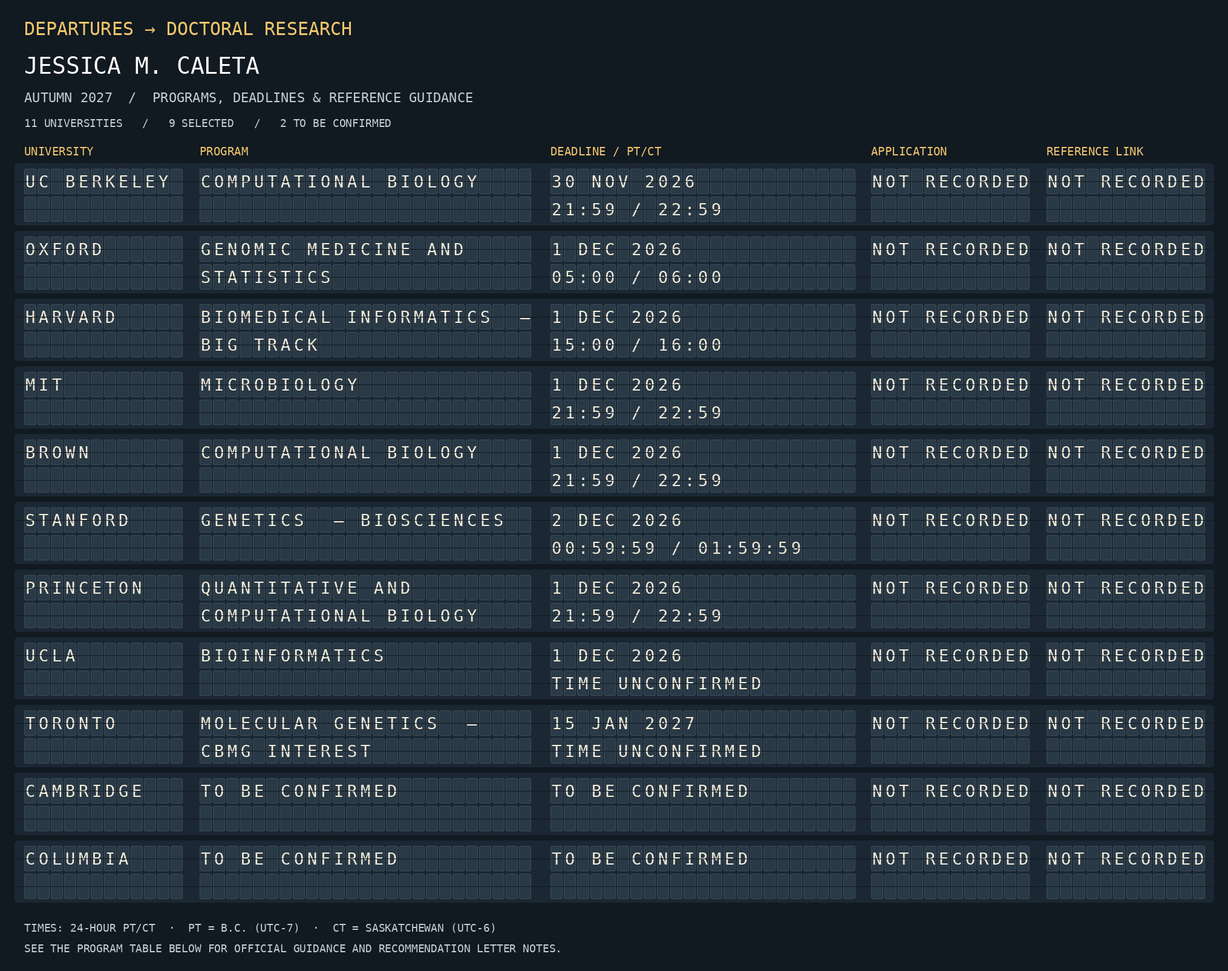
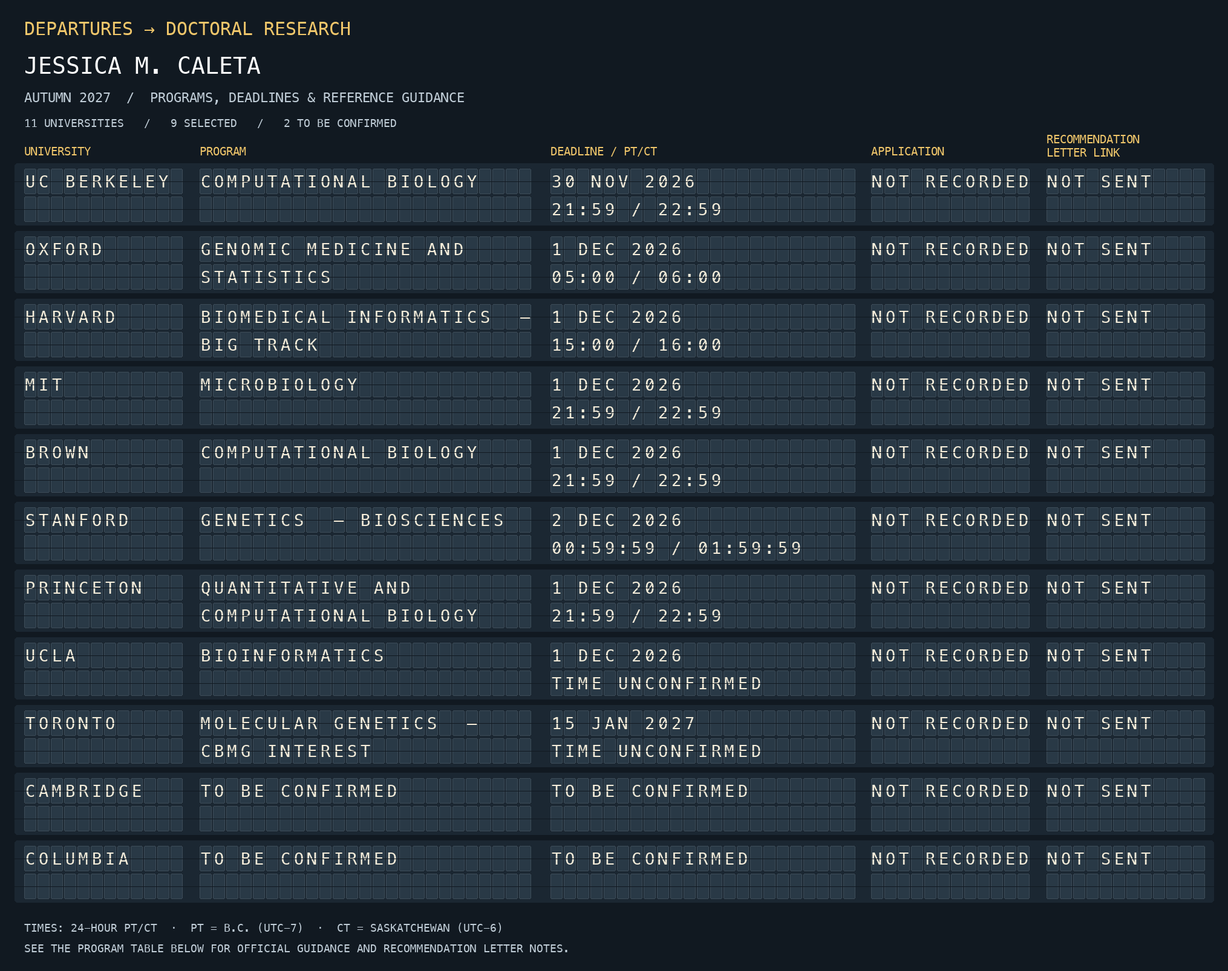
Restore linked signs and clarify recommendation link status

diff --git a/scripts/render_board.py b/scripts/render_board.py
@@ -1,77 +1,35 @@
-"""Render the landing page from Program_Info.md using only Python's standard library."""
-
+"""Refresh navigation and the program table while preserving other README edits."""
 from pathlib import Path
-import re
-
-
-ROOT = Path(__file__).resolve().parents[1]
-info = (ROOT / "Program_Info.md").read_text(encoding="utf-8")
-
-rows = []
+ROOT=Path(__file__).resolve().parents[1]
+info=(ROOT/'Program_Info.md').read_text(encoding='utf-8')
+readme_path=ROOT/'README.md'
+readme=readme_path.read_text(encoding='utf-8')
+rows=[]
 for line in info.splitlines():
-    if not line.startswith("| "):
-        continue
-    cells = [cell.strip() for cell in line.strip("|").split("|")]
-    if len(cells) != 7 or cells[0] in ("University", "---"):
-        continue
-    rows.append(cells)
-
+    if not line.startswith('| '):continue
+    cells=[cell.strip() for cell in line.strip('|').split('|')]
+    if len(cells)==7 and cells[0] not in ('University','---'):rows.append(cells)
 assert rows, "No program rows found"
-
-readme = """# Jessica M. Caleta · PhD referee package
-
-<p align="center">
-<a href="Jessica_Caleta_Academic_CV.pdf"><img src="assets/academic-cv-sign.png" alt="Academic CV — qualifications and publications" width="32%"></a> 
-<a href="Research_Brief.md"><img src="assets/research-brief-sign.png" alt="Research brief — interests and experience" width="32%"></a> 
+nav='''<p align="center">
+<a href="Jessica_Caleta_Academic_CV.pdf"><img src="assets/academic-cv-sign.png" alt="Academic CV — qualifications and publications" width="32%"></a>
+<a href="Research_Brief.md"><img src="assets/research-brief-sign.png" alt="Research brief — interests and experience" width="32%"></a>
 <a href="Program_Info.md"><img src="assets/program-guide-sign.png" alt="Program guide — deadlines and references" width="32%"></a>
 </p>
-
-[![PhD application board — click to jump to linked programs and guidance](assets/application-board.gif)](#programs-deadlines--recommendation-letters)
-
-[View the still board](assets/application-board-still.png) · Up to four values flip at once, with five-second pauses. Letters start together and settle independently. Deadlines stay still; the full table below is always readable.
-
-Welcome, and thank you for supporting my autumn 2027 PhD applications. This page is the central reference for my program choices, deadlines, and application progress. The table below links to the best official recommendation-letter guidance available; applicant-facing pages are labeled. Application status does not indicate whether a recommendation letter has been submitted.
-
-"""
-
-table_start = info.index("| University |")
-table_lines = info[table_start:].splitlines()
-last_table_line = max(
-    index for index, line in enumerate(table_lines) if line.startswith("| ")
-)
-suffix = "\n".join(table_lines[last_table_line + 1 :])
-intro = info[:table_start].replace(
-    "# PhD Programs, Deadlines & Recommendation Letter Guide",
-    "## Programs, deadlines & recommendation letters",
-    1,
-)
-# Keep the landing page concise; the full source guide retains the deadline note.
-intro = re.sub(r"\*\*Deadline:\*\*.*?\n\n", "", intro)
-intro = intro.replace("These labels reflect the referees’ locations. ", "")
-readme += intro
-
-readme += (
-    "| University | Program | Deadline | Recommendation letter guidelines | "
-    "Application status | Reference link status | Notes |\n"
-    "| --- | --- | --- | --- | --- | --- | --- |\n"
-)
-
-for university, program, deadline, guidance, status, link_status, note in rows:
-    note = "" if note in ("—", "") else note
-    readme += (
-        f"| **{university}** | {program} | {deadline.replace(' / ', '<br>')} | "
-        f"{guidance} | {status} | {link_status} | {note} |\n"
-    )
-
-readme += f"\n{suffix}\n"
-readme += """
-
-Updating the board
-
-Edit the **Application status** and **Reference link status** columns in [Program_Info.md](Program_Info.md), then commit the change to `main`. For reference links, use only “Sent”, “Not sent”, or “Not recorded”. You can also update program choices, deadlines, and notes in the same file, including the date at the top.
-
-GitHub Actions refreshes this landing page and its board after each edit. To regenerate locally, run `uv run python scripts/render_board.py` followed by `uv run --with pillow python scripts/render_animation.py`. The full table preserves the exact status wording and all guidance links.
-"""
-
-(ROOT / "README.md").write_text(readme, encoding="utf-8")
-print(f"Rendered {len(rows)} programs from Program_Info.md")
+'''
+# A visual Markdown editor can flatten the linked HTML signs. Restore their source markup.
+first_break=readme.index('\n\n')
+board_line=next(line for line in readme.splitlines() if 'assets/application-board.gif' in line)
+board_at=readme.index(board_line)
+readme=readme[:first_break+2]+nav+'\n'+readme[board_at:]
+lines=readme.splitlines()
+start=next(i for i,line in enumerate(lines) if line.startswith('| University'))
+end=start
+while end<len(lines) and lines[end].startswith('|'):end+=1
+table=['| University | Program | Deadline | Recommendation letter guidelines | Application status | Recommendation letter link | Notes |',
+       '| --- | --- | --- | --- | --- | --- | --- |']
+for university,program,deadline,guidance,status,link_status,note in rows:
+    note='' if note in ('—','') else note
+    table.append('| '+' | '.join([f'**{university}**',program,deadline,guidance,status,link_status,note])+' |')
+lines[start:end]=table
+readme_path.write_text('\n'.join(lines)+'\n',encoding='utf-8')
+print(f'Restored three linked signs and refreshed {len(rows)} program rows; other README text preserved.')

diff --git a/scripts/render_animation.py b/scripts/render_animation.py
@@ -32,7 +32,11 @@ label(40,86,'JESSICA M. CALETA',38,'#ffffff')
 label(40,148,'AUTUMN 2027  /  PROGRAMS, DEADLINES & REFERENCE GUIDANCE',22)
 pending=sum(r[1]=='TBD' for r in rows)
 label(40,193,f'{len(rows)} UNIVERSITIES   /   {len(rows)-pending} SELECTED   /   {pending} TO BE CONFIRMED',18)
-for (kind,x,n),name in zip(COLS,['UNIVERSITY','PROGRAM','DEADLINE / PT/CT','APPLICATION','REFERENCE LINK']):label(x,239,name,19,'#f0c66a')
+for (kind,x,n),name in zip(COLS,['UNIVERSITY','PROGRAM','DEADLINE / PT/CT','APPLICATION','RECOMMENDATION']):
+    if kind=='links':
+        label(x,219,name,19,'#f0c66a')
+        label(x,241,'LETTER LINK',19,'#f0c66a')
+    else:label(x,239,name,19,'#f0c66a')
 
 @lru_cache(maxsize=128)
 def card(ch):

diff --git a/README.md b/README.md
@@ -1,6 +1,10 @@
 # Jessica M. Caleta · PhD referee package
 
-![Academic CV — qualifications and publications](assets/academic-cv-sign.png) ![Research brief — interests and experience](assets/research-brief-sign.png) ![Program guide — deadlines and references](assets/program-guide-sign.png)
+<p align="center">
+<a href="Jessica_Caleta_Academic_CV.pdf"><img src="assets/academic-cv-sign.png" alt="Academic CV — qualifications and publications" width="32%"></a>
+<a href="Research_Brief.md"><img src="assets/research-brief-sign.png" alt="Research brief — interests and experience" width="32%"></a>
+<a href="Program_Info.md"><img src="assets/program-guide-sign.png" alt="Program guide — deadlines and references" width="32%"></a>
+</p>
 
 ![PhD application board — click to jump to linked programs and guidance](assets/application-board.gif)
 
@@ -14,22 +18,22 @@ Jessica M. Caleta · Autumn 2027 entry · Updated 28 October 2026
 
 **Application status:** Use “In progress”, “Submitted (date)”, “Withdrawn”, or “Not recorded”. Application submission and recommendation letter submission are separate actions.
 
-**Reference link status:** Use only “Sent”, “Not sent”, or “Not recorded”. “Not recorded” means the invitation status has not been updated. If a row says “Sent” and your invitation is missing, please check spam and contact Jessica for a resend. This tracks invitation links, not completed letters.
+**Recommendation letter link:** Use only “Sent”, “Not sent”, or “Not recorded”. “Not recorded” means the invitation status has not been updated. If a row says “Sent” and your invitation is missing, please check spam and contact Jessica for a resend. This tracks invitation links, not completed letters.
 
 
-| University      | Program                                                                                                                                                           | Deadline                                    | Recommendation letter guidelines                                                                                                                                                                                                                                                                                   | Application status | Reference link status | Notes                                                                                                                                                              |
-| --------------- | ----------------------------------------------------------------------------------------------------------------------------------------------------------------- | ------------------------------------------- | ------------------------------------------------------------------------------------------------------------------------------------------------------------------------------------------------------------------------------------------------------------------------------------------------------------------ | ------------------ | --------------------- | ------------------------------------------------------------------------------------------------------------------------------------------------------------------ |
-| **UC Berkeley** | [Computational Biology PhD](https://ccb.berkeley.edu/academics/computational-biology-phd)                                                                         | 30 Nov 2026 9:59 p.m. PT 10:59 p.m. CT      | [General letter-writing guidance for referees](https://gsi.berkeley.edu/gsi-guide-contents/fostering-your-professional-development/writing-letters-of-recommendation/) · [Computational Biology letter criteria (applicant-facing)](https://ccb.berkeley.edu/academics/computational-biology-phd/application-tips) | Not recorded       | Not recorded          | [Late letters are accepted, but review may proceed without them](https://ccb.berkeley.edu/academics/computational-biology-phd/phd-admissions).                     |
-| **Oxford**      | [DPhil in Genomic Medicine and Statistics](https://www.ox.ac.uk/admissions/graduate/courses/dphil-genomic-medicine-and-statistics)                                | 1 Dec 2026 5 a.m. PT 6 a.m. CT              | [Official instructions for referees](https://www.ox.ac.uk/admissions/graduate/application-guide/references/information-for-referees)                                                                                                                                                                               | Not recorded       | Not recorded          |                                                                                                                                                                    |
-| **Harvard**     | [Biomedical Informatics PhD — BIG track](https://bmiphd.hms.harvard.edu/welcome-big)                                                                              | 1 Dec 2026 3 p.m. PT 4 p.m. CT              | [GSAS letter requirements (applicant-facing)](https://gsas.harvard.edu/apply/applying-degree-programs/letters-recommendation)                                                                                                                                                                                      | Not recorded       | Not recorded          |                                                                                                                                                                    |
-| **MIT**         | [Microbiology PhD](https://oge.mit.edu/programs/microbiology/)                                                                                                    | 1 Dec 2026 9:59 p.m. PT 10:59 p.m. CT       | [Microbiology letter requirements (applicant-facing)](https://microbiology.mit.edu/graduate-program/how-to-apply/)                                                                                                                                                                                                 | Not recorded       | Not recorded          |                                                                                                                                                                    |
-| **Brown**       | [Computational Biology PhD](https://graduateprograms.brown.edu/graduate-program/computational-biology-phd)                                                        | 1 Dec 2026 9:59 p.m. PT 10:59 p.m. CT       | [Computational Biology letter criteria (applicant-facing)](https://ccmb.brown.edu/academics/graduate-program/application-information)                                                                                                                                                                              | Not recorded       | Not recorded          |                                                                                                                                                                    |
-| **Stanford**    | [Genetics PhD — Biosciences](https://med.stanford.edu/genetics/education.html)                                                                                    | 2 Dec 2026 12:59:59 a.m. PT 1:59:59 a.m. CT | [Recommendation form and letter prompt](https://gradadmissions.stanford.edu/apply/recommendations)                                                                                                                                                                                                                 | Not recorded       | Not recorded          |                                                                                                                                                                    |
-| **Princeton**   | [Quantitative and Computational Biology PhD](https://gradschool.princeton.edu/academics/degrees-requirements/fields-study/quantitative-and-computational-biology) | 1 Dec 2026 9:59 p.m. PT 10:59 p.m. CT       | [Graduate School letter requirements (applicant-facing)](https://gradschool.princeton.edu/admission-onboarding/prepare/letters-recommendation)                                                                                                                                                                     | Not recorded       | Not recorded          |                                                                                                                                                                    |
-| **UCLA**        | [Bioinformatics PhD](https://grad.ucla.edu/programs/life-sciences/bioinformatics-department/bioinformatics/)                                                      | 1 Dec 2026 — time not published/verified    | [Bioscience recommender criteria (applicant-facing)](https://bioscience.ucla.edu/application-procedure/)                                                                                                                                                                                                           | Not recorded       | Not recorded          | [Letters may arrive later, but no exact separate cutoff is published](https://grad.ucla.edu/admissions/faqs/).                                                     |
-| **Toronto**     | [Molecular Genetics PhD — CBMG interest](https://www.sgs.utoronto.ca/programs/molecular-genetics/)                                                                | 15 Jan 2027 — time not published/verified   | [Molecular Genetics reference criteria (applicant-facing)](https://moleculargenetics.utoronto.ca/grad-application-procedures)                                                                                                                                                                                      | Not recorded       | Not recorded          |                                                                                                                                                                    |
-| **Cambridge**   | TBD                                                                                                                                                               | TBD — depends on program                    | [Official guidance for academic referees](https://www.postgraduate.study.cam.ac.uk/apply/how/academic-referees)                                                                                                                                                                                                    | Not recorded       | Not recorded          |                                                                                                                                                                    |
-| **Columbia**    | TBD                                                                                                                                                               | TBD — depends on program                    | [GSAS recommendation requirements (applicant-facing)](https://www.gsas.columbia.edu/content/admissions-supporting-materials)                                                                                                                                                                                       | Not recorded       | Not recorded          | [Letters should arrive by the program deadline, but GSAS allows up to two weeks afterward](https://www.gsas.columbia.edu/content/admissions-supporting-materials). |
+| University | Program | Deadline | Recommendation letter guidelines | Application status | Recommendation letter link | Notes |
+| --- | --- | --- | --- | --- | --- | --- |
+| **UC Berkeley** | [Computational Biology PhD](https://ccb.berkeley.edu/academics/computational-biology-phd) | 30 Nov 2026<br>9:59 p.m. PT / 10:59 p.m. CT | [General letter-writing guidance for referees](https://gsi.berkeley.edu/gsi-guide-contents/fostering-your-professional-development/writing-letters-of-recommendation/) · [Computational Biology letter criteria (applicant-facing)](https://ccb.berkeley.edu/academics/computational-biology-phd/application-tips) | Not recorded | Not sent | [Late letters are accepted, but review may proceed without them](https://ccb.berkeley.edu/academics/computational-biology-phd/phd-admissions). |
+| **Oxford** | [DPhil in Genomic Medicine and Statistics](https://www.ox.ac.uk/admissions/graduate/courses/dphil-genomic-medicine-and-statistics) | 1 Dec 2026<br>5 a.m. PT / 6 a.m. CT | [Official instructions for referees](https://www.ox.ac.uk/admissions/graduate/application-guide/references/information-for-referees) | Not recorded | Not sent |  |
+| **Harvard** | [Biomedical Informatics PhD — BIG track](https://bmiphd.hms.harvard.edu/welcome-big) | 1 Dec 2026<br>3 p.m. PT / 4 p.m. CT | [GSAS letter requirements (applicant-facing)](https://gsas.harvard.edu/apply/applying-degree-programs/letters-recommendation) | Not recorded | Not sent |  |
+| **MIT** | [Microbiology PhD](https://oge.mit.edu/programs/microbiology/) | 1 Dec 2026<br>9:59 p.m. PT / 10:59 p.m. CT | [Microbiology letter requirements (applicant-facing)](https://microbiology.mit.edu/graduate-program/how-to-apply/) | Not recorded | Not sent |  |
+| **Brown** | [Computational Biology PhD](https://graduateprograms.brown.edu/graduate-program/computational-biology-phd) | 1 Dec 2026<br>9:59 p.m. PT / 10:59 p.m. CT | [Computational Biology letter criteria (applicant-facing)](https://ccmb.brown.edu/academics/graduate-program/application-information) | Not recorded | Not sent |  |
+| **Stanford** | [Genetics PhD — Biosciences](https://med.stanford.edu/genetics/education.html) | 2 Dec 2026<br>12:59:59 a.m. PT / 1:59:59 a.m. CT | [Recommendation form and letter prompt](https://gradadmissions.stanford.edu/apply/recommendations) | Not recorded | Not sent |  |
+| **Princeton** | [Quantitative and Computational Biology PhD](https://gradschool.princeton.edu/academics/degrees-requirements/fields-study/quantitative-and-computational-biology) | 1 Dec 2026<br>9:59 p.m. PT / 10:59 p.m. CT | [Graduate School letter requirements (applicant-facing)](https://gradschool.princeton.edu/admission-onboarding/prepare/letters-recommendation) | Not recorded | Not sent |  |
+| **UCLA** | [Bioinformatics PhD](https://grad.ucla.edu/programs/life-sciences/bioinformatics-department/bioinformatics/) | 1 Dec 2026 — time not published/verified | [Bioscience recommender criteria (applicant-facing)](https://bioscience.ucla.edu/application-procedure/) | Not recorded | Not sent | [Letters may arrive later, but no exact separate cutoff is published](https://grad.ucla.edu/admissions/faqs/). |
+| **Toronto** | [Molecular Genetics PhD — CBMG interest](https://www.sgs.utoronto.ca/programs/molecular-genetics/) | 15 Jan 2027 — time not published/verified | [Molecular Genetics reference criteria (applicant-facing)](https://moleculargenetics.utoronto.ca/grad-application-procedures) | Not recorded | Not sent |  |
+| **Cambridge** | TBD | TBD — depends on program | [Official guidance for academic referees](https://www.postgraduate.study.cam.ac.uk/apply/how/academic-referees) | Not recorded | Not sent |  |
+| **Columbia** | TBD | TBD — depends on program | [GSAS recommendation requirements (applicant-facing)](https://www.gsas.columbia.edu/content/admissions-supporting-materials) | Not recorded | Not sent | [Letters should arrive by the program deadline, but GSAS allows up to two weeks afterward](https://www.gsas.columbia.edu/content/admissions-supporting-materials). |
 
 
 **Submitting letters:** Each university sends an individual submission link to each registered referee. Use that emailed link to upload the letter. The guidance links above are public instructions, not personal upload links.
@@ -38,6 +42,6 @@ Cambridge and Columbia are included for planning only until their programs are f
 
 Updating the board
 
-Edit the **Application status** and **Reference link status** columns in [Program_Info.md](Program_Info.md), then commit the change to `main`. For reference links, use only “Sent”, “Not sent”, or “Not recorded”. You can also update program choices, deadlines, and notes in the same file, including the date at the top.
+Edit the **Application status** and **Recommendation letter link** columns in [Program_Info.md](Program_Info.md), then commit the change to `main`. For recommendation letter links, use only “Sent”, “Not sent”, or “Not recorded”. You can also update program choices, deadlines, and notes in the same file, including the date at the top.
 
 GitHub Actions refreshes this landing page and its board after each edit. To regenerate locally, run `uv run python scripts/render_board.py` followed by `uv run --with pillow python scripts/render_animation.py`. The full table preserves the exact status wording and all guidance links.

diff --git a/Program_Info.md b/Program_Info.md
@@ -8,21 +8,21 @@ Jessica M. Caleta · Autumn 2027 entry · Updated 28 October 2026
 
 **Application status:** Use “Not started”, “In progress”, “Submitted (date)”, “Withdrawn”, or “Not recorded”. Application submission and reference submission are separate actions.
 
-**Reference link status:** Use only “Sent”, “Not sent”, or “Not recorded”. “Not recorded” means the invitation status has not been updated. If a row says “Sent” and your invitation is missing, please check spam and contact Jessica for a resend. This tracks invitation links, not completed letters.
+**Recommendation letter link:** Use only “Sent”, “Not sent”, or “Not recorded”. “Not recorded” means the invitation status has not been updated. If a row says “Sent” and your invitation is missing, please check spam and contact Jessica for a resend. This tracks invitation links, not completed letters.
 
-| University | Program | Deadline (PT / CT) | Recommendation letter guidelines | Application status | Reference link status | Notes |
+| University | Program | Deadline (PT / CT) | Recommendation letter guidelines | Application status | Recommendation letter link | Notes |
 | --- | --- | --- | --- | --- | --- | --- |
-| UC Berkeley | [Computational Biology PhD](https://ccb.berkeley.edu/academics/computational-biology-phd) | 30 Nov 2026<br>9:59 p.m. PT / 10:59 p.m. CT | [General letter-writing guidance for referees](https://gsi.berkeley.edu/gsi-guide-contents/fostering-your-professional-development/writing-letters-of-recommendation/) · [Computational Biology letter criteria (applicant-facing)](https://ccb.berkeley.edu/academics/computational-biology-phd/application-tips) | Not recorded | Not recorded | [Late letters are accepted, but review may proceed without them](https://ccb.berkeley.edu/academics/computational-biology-phd/phd-admissions). |
-| Oxford | [DPhil in Genomic Medicine and Statistics](https://www.ox.ac.uk/admissions/graduate/courses/dphil-genomic-medicine-and-statistics) | 1 Dec 2026<br>5 a.m. PT / 6 a.m. CT | [Official instructions for referees](https://www.ox.ac.uk/admissions/graduate/application-guide/references/information-for-referees) | Not recorded | Not recorded | — |
-| Harvard | [Biomedical Informatics PhD — BIG track](https://bmiphd.hms.harvard.edu/welcome-big) | 1 Dec 2026<br>3 p.m. PT / 4 p.m. CT | [GSAS letter requirements (applicant-facing)](https://gsas.harvard.edu/apply/applying-degree-programs/letters-recommendation) | Not recorded | Not recorded | — |
-| MIT | [Microbiology PhD](https://oge.mit.edu/programs/microbiology/) | 1 Dec 2026<br>9:59 p.m. PT / 10:59 p.m. CT | [Microbiology letter requirements (applicant-facing)](https://microbiology.mit.edu/graduate-program/how-to-apply/) | Not recorded | Not recorded | — |
-| Brown | [Computational Biology PhD](https://graduateprograms.brown.edu/graduate-program/computational-biology-phd) | 1 Dec 2026<br>9:59 p.m. PT / 10:59 p.m. CT | [Computational Biology letter criteria (applicant-facing)](https://ccmb.brown.edu/academics/graduate-program/application-information) | Not recorded | Not recorded | — |
-| Stanford | [Genetics PhD — Biosciences](https://med.stanford.edu/genetics/education.html) | 2 Dec 2026<br>12:59:59 a.m. PT / 1:59:59 a.m. CT | [Recommendation form and letter prompt](https://gradadmissions.stanford.edu/apply/recommendations) | Not recorded | Not recorded | — |
-| Princeton | [Quantitative and Computational Biology PhD](https://gradschool.princeton.edu/academics/degrees-requirements/fields-study/quantitative-and-computational-biology) | 1 Dec 2026<br>9:59 p.m. PT / 10:59 p.m. CT | [Graduate School letter requirements (applicant-facing)](https://gradschool.princeton.edu/admission-onboarding/prepare/letters-recommendation) | Not recorded | Not recorded | — |
-| UCLA | [Bioinformatics PhD](https://grad.ucla.edu/programs/life-sciences/bioinformatics-department/bioinformatics/) | 1 Dec 2026 — time not published/verified | [Bioscience recommender criteria (applicant-facing)](https://bioscience.ucla.edu/application-procedure/) | Not recorded | Not recorded | [Letters may arrive later, but no exact separate cutoff is published](https://grad.ucla.edu/admissions/faqs/). |
-| Toronto | [Molecular Genetics PhD — CBMG interest](https://www.sgs.utoronto.ca/programs/molecular-genetics/) | 15 Jan 2027 — time not published/verified | [Molecular Genetics reference criteria (applicant-facing)](https://moleculargenetics.utoronto.ca/grad-application-procedures) | Not recorded | Not recorded | — |
-| Cambridge | TBD | TBD — depends on program | [Official guidance for academic referees](https://www.postgraduate.study.cam.ac.uk/apply/how/academic-referees) | Not recorded | Not recorded | — |
-| Columbia | TBD | TBD — depends on program | [GSAS recommendation requirements (applicant-facing)](https://www.gsas.columbia.edu/content/admissions-supporting-materials) | Not recorded | Not recorded | [Letters should arrive by the program deadline, but GSAS allows up to two weeks afterward](https://www.gsas.columbia.edu/content/admissions-supporting-materials). |
+| UC Berkeley | [Computational Biology PhD](https://ccb.berkeley.edu/academics/computational-biology-phd) | 30 Nov 2026<br>9:59 p.m. PT / 10:59 p.m. CT | [General letter-writing guidance for referees](https://gsi.berkeley.edu/gsi-guide-contents/fostering-your-professional-development/writing-letters-of-recommendation/) · [Computational Biology letter criteria (applicant-facing)](https://ccb.berkeley.edu/academics/computational-biology-phd/application-tips) | Not recorded | Not sent | [Late letters are accepted, but review may proceed without them](https://ccb.berkeley.edu/academics/computational-biology-phd/phd-admissions). |
+| Oxford | [DPhil in Genomic Medicine and Statistics](https://www.ox.ac.uk/admissions/graduate/courses/dphil-genomic-medicine-and-statistics) | 1 Dec 2026<br>5 a.m. PT / 6 a.m. CT | [Official instructions for referees](https://www.ox.ac.uk/admissions/graduate/application-guide/references/information-for-referees) | Not recorded | Not sent | — |
+| Harvard | [Biomedical Informatics PhD — BIG track](https://bmiphd.hms.harvard.edu/welcome-big) | 1 Dec 2026<br>3 p.m. PT / 4 p.m. CT | [GSAS letter requirements (applicant-facing)](https://gsas.harvard.edu/apply/applying-degree-programs/letters-recommendation) | Not recorded | Not sent | — |
+| MIT | [Microbiology PhD](https://oge.mit.edu/programs/microbiology/) | 1 Dec 2026<br>9:59 p.m. PT / 10:59 p.m. CT | [Microbiology letter requirements (applicant-facing)](https://microbiology.mit.edu/graduate-program/how-to-apply/) | Not recorded | Not sent | — |
+| Brown | [Computational Biology PhD](https://graduateprograms.brown.edu/graduate-program/computational-biology-phd) | 1 Dec 2026<br>9:59 p.m. PT / 10:59 p.m. CT | [Computational Biology letter criteria (applicant-facing)](https://ccmb.brown.edu/academics/graduate-program/application-information) | Not recorded | Not sent | — |
+| Stanford | [Genetics PhD — Biosciences](https://med.stanford.edu/genetics/education.html) | 2 Dec 2026<br>12:59:59 a.m. PT / 1:59:59 a.m. CT | [Recommendation form and letter prompt](https://gradadmissions.stanford.edu/apply/recommendations) | Not recorded | Not sent | — |
+| Princeton | [Quantitative and Computational Biology PhD](https://gradschool.princeton.edu/academics/degrees-requirements/fields-study/quantitative-and-computational-biology) | 1 Dec 2026<br>9:59 p.m. PT / 10:59 p.m. CT | [Graduate School letter requirements (applicant-facing)](https://gradschool.princeton.edu/admission-onboarding/prepare/letters-recommendation) | Not recorded | Not sent | — |
+| UCLA | [Bioinformatics PhD](https://grad.ucla.edu/programs/life-sciences/bioinformatics-department/bioinformatics/) | 1 Dec 2026 — time not published/verified | [Bioscience recommender criteria (applicant-facing)](https://bioscience.ucla.edu/application-procedure/) | Not recorded | Not sent | [Letters may arrive later, but no exact separate cutoff is published](https://grad.ucla.edu/admissions/faqs/). |
+| Toronto | [Molecular Genetics PhD — CBMG interest](https://www.sgs.utoronto.ca/programs/molecular-genetics/) | 15 Jan 2027 — time not published/verified | [Molecular Genetics reference criteria (applicant-facing)](https://moleculargenetics.utoronto.ca/grad-application-procedures) | Not recorded | Not sent | — |
+| Cambridge | TBD | TBD — depends on program | [Official guidance for academic referees](https://www.postgraduate.study.cam.ac.uk/apply/how/academic-referees) | Not recorded | Not sent | — |
+| Columbia | TBD | TBD — depends on program | [GSAS recommendation requirements (applicant-facing)](https://www.gsas.columbia.edu/content/admissions-supporting-materials) | Not recorded | Not sent | [Letters should arrive by the program deadline, but GSAS allows up to two weeks afterward](https://www.gsas.columbia.edu/content/admissions-supporting-materials). |
 
 **Submitting letters:** Each university sends an individual submission link to each registered referee. Use that emailed link to upload the letter. The guidance links above are public instructions, not personal upload links.
 
